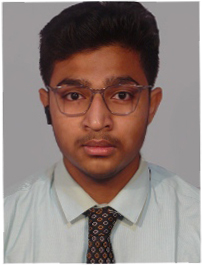
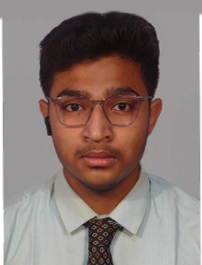
Some Design and Content Update in About Page

Changed region(s): [[0.0, 0.0, 1.0, 1.0], [0.8614, 0.6642, 1.0, 0.7547]]

diff --git a/public/about.html b/public/about.html
@@ -135,25 +135,26 @@
         <div class="text-center md:max-w-xl lg:max-w-3xl mx-auto my-10 py-5">
             <h3 class="text-6xl font-extrabold tracking-wide mb-6 text-gray-800">Members</h3>
         </div>
-        <div class="grid md:grid-cols-2 lg:grid-cols-3 gap-11 text-center">
-            <!-- Shihan Dai Koustav Sarkar -->
-            <div>
-                <div class="block rounded-lg shadow-2xl hover:shadow-[#3185fc] cursor-pointer bg-white">
-                    <div class="overflow-hidden rounded-t-lg h-28" style="background-color: #3185fc;"></div>
-                    <div class="w-24 -mt-12 overflow-hidden border-2 border-white rounded-full mx-auto bg-white">
-                        <img src="./assets/members_photos/sensei_kaustav_sarkar.jpg"
-                            style="width: 100px; height: 100px; object-fit: cover; object-position: 25% 25%;" />
-                    </div>
-                    <div class="p-6">
-                        <h4 class="text-2xl font-bold mb-4">Shihan Dai Koustav Sarkar</h4>
-                        <hr />
-                        <p class="mt-4 font-semibold">
-                            President
-                        </p>
-                    </div>
+        <!-- Shihan Dai Koustav Sarkar -->
+        <div>
+            <div
+                class="block rounded-lg shadow-2xl hover:shadow-[#3185fc] cursor-pointer bg-white lg:mb-32 md:mb-16 mb-8">
+                <div class="overflow-hidden rounded-t-lg h-28" style="background-color: #3185fc;"></div>
+                <div class="w-24 -mt-12 overflow-hidden border-4 border-white rounded-full mx-auto bg-white">
+                    <img src="./assets/members_photos/sensei_kaustav_sarkar.jpg"
+                        style="width: 300px; height: 100px; object-fit: cover; object-position: 25% 5%; transform: scale(2);" />
+                </div>
+                <div class="p-6 flex flex-col items-center">
+                    <h4 class="text-4xl font-bold mb-4">Shihan Dai Koustav Sarkar</h4>
+                    <!-- <hr class="mx-auto w-[90%] h-1 rounded border-0 my-4 bg-gray-700"> -->
+                    <p class="mt-4 font-semibold text-2xl">
+                        National Director, President
+                    </p>
                 </div>
             </div>
-            <!-- Shihan Dai Kaustav Sarkar -->
+        </div>
+        <!-- Shihan Dai Kaustav Sarkar -->
+        <div class="grid md:grid-cols-2 lg:grid-cols-3 gap-11 text-center">
             <!-- Sensei Anurag Gupta -->
             <div>
                 <div class="block rounded-lg shadow-2xl hover:shadow-[#d1d0a3] cursor-pointer bg-white">
@@ -190,13 +191,31 @@
                 </div>
             </div>
             <!-- Shihan Shubir Bagchi -->
+            <!-- Shihan Abhinava Mandal -->
+            <div>
+                <div class="block rounded-lg shadow-2xl hover:shadow-[#B9F3FC] cursor-pointer bg-white">
+                    <div class="overflow-hidden rounded-t-lg h-28" style="background-color: #B9F3FC;"></div>
+                    <div class="w-24 -mt-12 overflow-hidden border-2 border-white rounded-full mx-auto bg-white">
+                        <img src="./assets/members_photos/abhinava_mondal.jpg"
+                            style="width: 100px; height: 100px; object-fit: cover; object-position: 50% -5%;" />
+                    </div>
+                    <div class="p-6">
+                        <h4 class="text-2xl font-bold mb-4">Shihan Abhinava Mandal</h4>
+                        <hr />
+                        <p class="mt-4 font-semibold">
+                            Chief Secretary to National Director
+                        </p>
+                    </div>
+                </div>
+            </div>
+            <!-- Shihan Abhinava Mandal -->
             <!-- Sensei Rohan Ganguly -->
             <div>
                 <div class="block rounded-lg shadow-2xl hover:shadow-[#a78a7f] cursor-pointer bg-white">
                     <div class="overflow-hidden rounded-t-lg h-28" style="background-color: #a78a7f;"></div>
                     <div class="w-24 -mt-12 overflow-hidden border-2 border-white rounded-full mx-auto bg-white">
                         <img src="./assets/members_photos/sensei_rohan_ganguly.jpg"
-                            style="width: 100px; height: 100px; object-fit: cover; object-position: 25% 25%;" />
+                            style="width: 100px; height: 100px; object-fit: cover; object-position: 60% 25%;" />
                     </div>
                     <div class="p-6">
                         <h4 class="text-2xl font-bold mb-4">Sensei Rohan Ganguly</h4>
@@ -232,7 +251,7 @@
                     <div class="overflow-hidden rounded-t-lg h-28" style="background-color: #69a2b0;"></div>
                     <div class="w-24 -mt-12 overflow-hidden border-2 border-white rounded-full mx-auto bg-white">
                         <img src="./assets/members_photos/shri_avinandan_saha.jpg"
-                            style="width: 100px; height: 100px; object-fit: cover; object-position: 25% 25%;" />
+                            style="width: 100px; height: 100px; object-fit: cover; object-position: 25% 0%;" />
                     </div>
                     <div class="p-6">
                         <h4 class="text-2xl font-bold mb-4">Shri Avinandan Saha</h4>
@@ -244,13 +263,31 @@
                 </div>
             </div>
             <!-- Shri Avinandan Saha -->
+            <!-- Shri Dipika Biswas -->
+            <div>
+                <div class="block rounded-lg shadow-2xl hover:shadow-[#645CBB] cursor-pointer bg-white">
+                    <div class="overflow-hidden rounded-t-lg h-28" style="background-color: #645CBB;"></div>
+                    <div class="w-24 -mt-12 overflow-hidden border-2 border-white rounded-full mx-auto bg-white">
+                        <img src="./assets/members_photos/dipika_biswas.jpg"
+                            style="width: 100px; height: 100px; object-fit: cover; object-position: 50%;" />
+                    </div>
+                    <div class="p-6">
+                        <h4 class="text-2xl font-bold mb-4">Sensei Dipika Biswas</h4>
+                        <hr />
+                        <p class="mt-4 font-semibold">
+                            Secretary of Events
+                        </p>
+                    </div>
+                </div>
+            </div>
+            <!-- Shri Dipika Biswas -->
             <!-- Shri Aritri Dey -->
             <div>
                 <div class="block rounded-lg shadow-2xl hover:shadow-[#00d9c0] cursor-pointer bg-white">
                     <div class="overflow-hidden rounded-t-lg h-28" style="background-color: #00d9c0;"></div>
                     <div class="w-24 -mt-12 overflow-hidden border-2 border-white rounded-full mx-auto bg-white">
                         <img src="./assets/members_photos/sensei_aritri_dey.jpg"
-                            style="width: 100px; height: 100px; object-fit: cover; object-position: 25% 25%;" />
+                            style="width: 100px; height: 100px; object-fit: cover; object-position: 50% 25%;" />
                     </div>
                     <div class="p-6">
                         <h4 class="text-2xl font-bold mb-4">Sensei Aritri Dey</h4>
@@ -280,24 +317,6 @@
                 </div>
             </div>
             <!-- Shri Amarendra Das -->
-            <!-- Sm. Druti Dutta -->
-            <div>
-                <div class="block rounded-lg shadow-2xl hover:shadow-[#7c6c77] cursor-pointer bg-white">
-                    <div class="overflow-hidden rounded-t-lg h-28" style="background-color: #7c6c77;"></div>
-                    <div class="w-24 -mt-12 overflow-hidden border-2 border-white rounded-full mx-auto bg-white">
-                        <img src="./assets/members_photos/sm_druti_dutta.jpg"
-                            style="width: 100px; height: 100px; object-fit: cover; object-position: 25% 25%;" />
-                    </div>
-                    <div class="p-6">
-                        <h4 class="text-2xl font-bold mb-4">Sm. Druti Dutta</h4>
-                        <hr />
-                        <p class="mt-4 font-semibold">
-                            Secretary of Communications
-                        </p>
-                    </div>
-                </div>
-            </div>
-            <!-- Sm. Druti Dutta -->
             <!-- Sensei Preet Kaur -->
             <div>
                 <div class="block rounded-lg shadow-2xl hover:shadow-[#ffe787] cursor-pointer bg-white">
@@ -310,7 +329,7 @@
                         <h4 class="text-2xl font-bold mb-4">Sensei Preet Kaur</h4>
                         <hr />
                         <p class="mt-4 font-semibold">
-                            Secretary of Online Engagement
+                            Secretary of Communication
                         </p>
                     </div>
                 </div>
@@ -346,7 +365,7 @@
                         <h4 class="text-2xl font-bold mb-4">Sensei Mainak Biswas</h4>
                         <hr />
                         <p class="mt-4 font-semibold">
-                            Secretary of Membership
+                            Chief of Interns
                         </p>
                     </div>
                 </div>
@@ -364,7 +383,7 @@
                         <h4 class="text-2xl font-bold mb-4">Sensei Rupam Das</h4>
                         <hr />
                         <p class="mt-4 font-semibold">
-                            Chief of Intern
+                            Content Creation
                         </p>
                     </div>
                 </div>

diff --git a/public/output.css b/public/output.css
@@ -650,14 +650,14 @@ video {
   margin-bottom: 2.5rem;
 }
 
-.my-6 {
-  margin-top: 1.5rem;
-  margin-bottom: 1.5rem;
-}
-
 .my-4 {
   margin-top: 1rem;
   margin-bottom: 1rem;
+}
+
+.my-6 {
+  margin-top: 1.5rem;
+  margin-bottom: 1.5rem;
 }
 
 .my-2 {
@@ -718,6 +718,10 @@ video {
   margin-top: 3rem;
 }
 
+.mb-8 {
+  margin-bottom: 2rem;
+}
+
 .-mt-12 {
   margin-top: -3rem;
 }
@@ -760,10 +764,6 @@ video {
 
 .mb-5 {
   margin-bottom: 1.25rem;
-}
-
-.mb-8 {
-  margin-bottom: 2rem;
 }
 
 .mb-32 {
@@ -822,6 +822,10 @@ video {
   height: 7rem;
 }
 
+.h-1 {
+  height: 0.25rem;
+}
+
 .h-8 {
   height: 2rem;
 }
@@ -858,6 +862,10 @@ video {
   width: 6rem;
 }
 
+.w-\[90\%\] {
+  width: 90%;
+}
+
 .w-4 {
   width: 1rem;
 }
@@ -892,6 +900,10 @@ video {
 
 .basis-auto {
   flex-basis: auto;
+}
+
+.transform {
+  transform: translate(var(--tw-translate-x), var(--tw-translate-y)) rotate(var(--tw-rotate)) skewX(var(--tw-skew-x)) skewY(var(--tw-skew-y)) scaleX(var(--tw-scale-x)) scaleY(var(--tw-scale-y));
 }
 
 .cursor-pointer {
@@ -1003,6 +1015,10 @@ video {
 
 .border-0 {
   border-width: 0px;
+}
+
+.border-4 {
+  border-width: 4px;
 }
 
 .border-2 {
@@ -1461,11 +1477,6 @@ video {
   fill: #4267B2;
 }
 
-.hover\:text-blue-600:hover {
-  --tw-text-opacity: 1;
-  color: rgb(37 99 235 / var(--tw-text-opacity));
-}
-
 .hover\:underline:hover {
   text-decoration-line: underline;
 }
@@ -1495,6 +1506,11 @@ video {
   --tw-shadow: var(--tw-shadow-colored);
 }
 
+.hover\:shadow-\[\#B9F3FC\]:hover {
+  --tw-shadow-color: #B9F3FC;
+  --tw-shadow: var(--tw-shadow-colored);
+}
+
 .hover\:shadow-\[\#a78a7f\]:hover {
   --tw-shadow-color: #a78a7f;
   --tw-shadow: var(--tw-shadow-colored);
@@ -1510,6 +1526,11 @@ video {
   --tw-shadow: var(--tw-shadow-colored);
 }
 
+.hover\:shadow-\[\#645CBB\]:hover {
+  --tw-shadow-color: #645CBB;
+  --tw-shadow: var(--tw-shadow-colored);
+}
+
 .hover\:shadow-\[\#00d9c0\]:hover {
   --tw-shadow-color: #00d9c0;
   --tw-shadow: var(--tw-shadow-colored);
@@ -1517,11 +1538,6 @@ video {
 
 .hover\:shadow-\[\#466365\]:hover {
   --tw-shadow-color: #466365;
-  --tw-shadow: var(--tw-shadow-colored);
-}
-
-.hover\:shadow-\[\#7c6c77\]:hover {
-  --tw-shadow-color: #7c6c77;
   --tw-shadow: var(--tw-shadow-colored);
 }
 
@@ -1722,6 +1738,10 @@ video {
     margin-bottom: 0px;
   }
 
+  .md\:mb-16 {
+    margin-bottom: 4rem;
+  }
+
   .md\:mr-6 {
     margin-right: 1.5rem;
   }
@@ -1884,6 +1904,10 @@ video {
   .lg\:mx-\[11\.25vw\] {
     margin-left: 11.25vw;
     margin-right: 11.25vw;
+  }
+
+  .lg\:mb-32 {
+    margin-bottom: 8rem;
   }
 
   .lg\:mb-10 {
